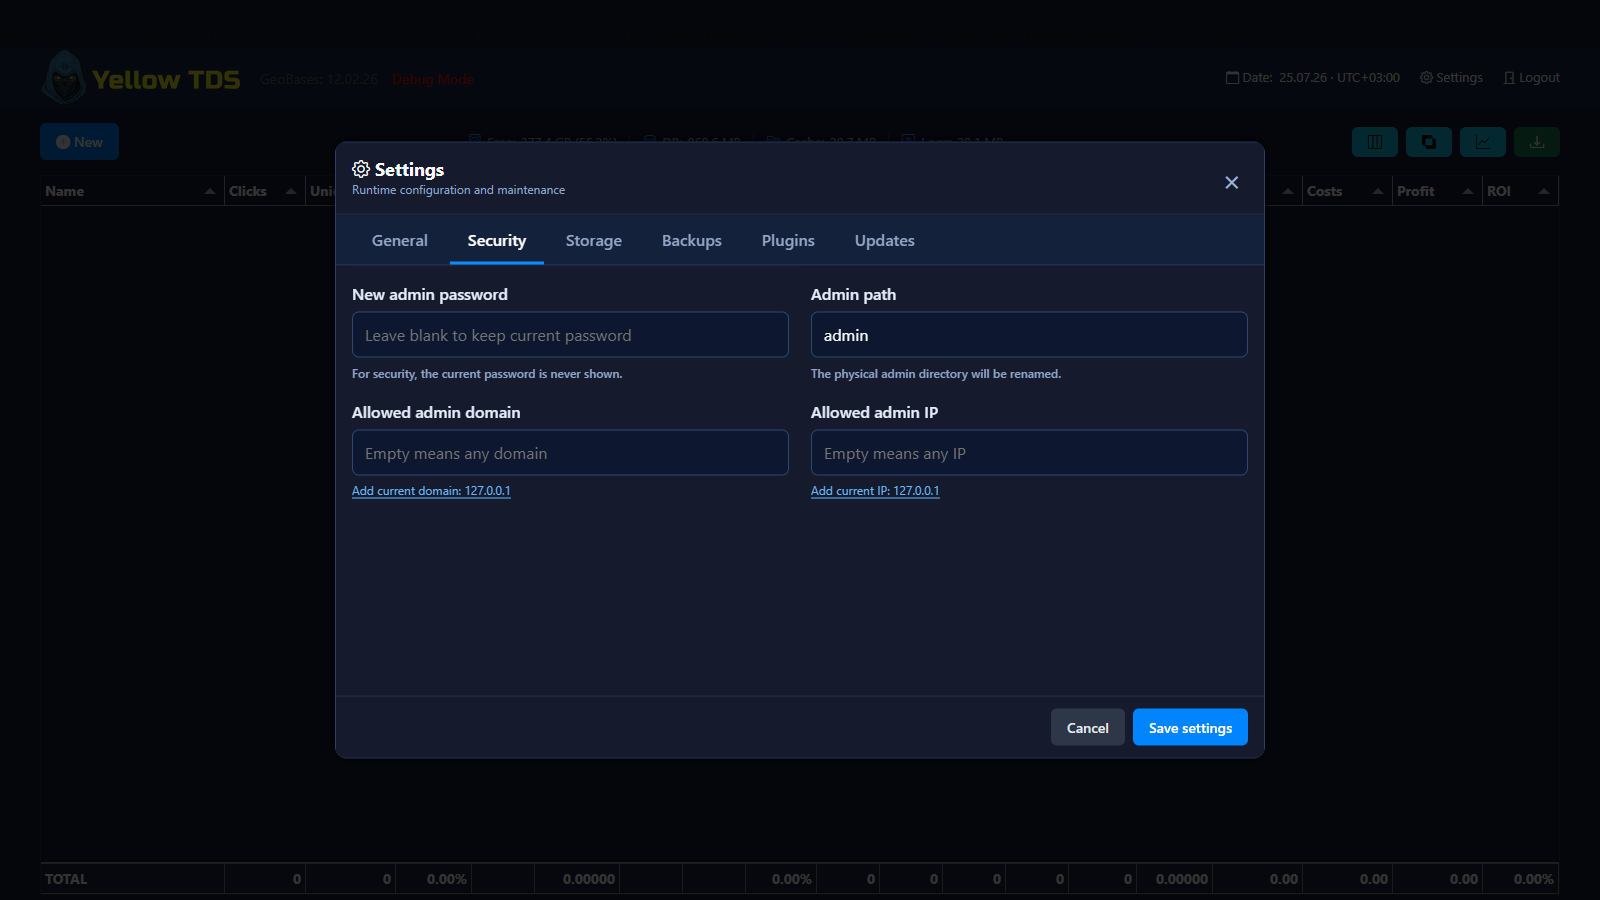
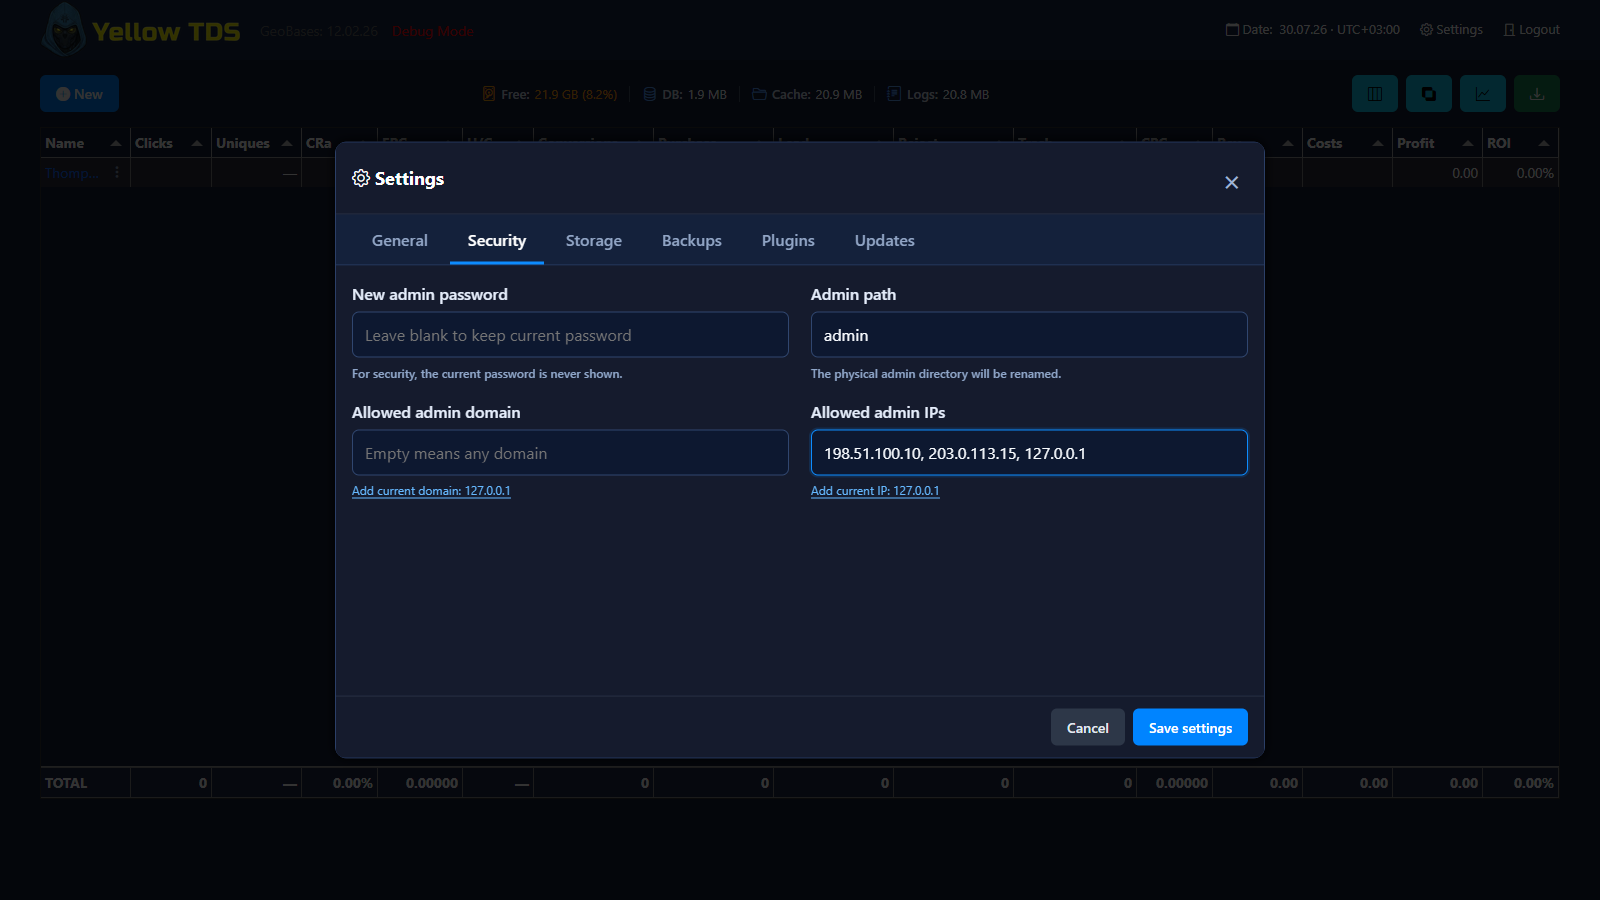
Allow multiple admin IPs

diff --git a/code/admin/js/settings.js b/code/admin/js/settings.js
@@ -598,9 +598,17 @@
         node('#addCurrentAdminIp')?.addEventListener('click', () => {
             const button = node('#addCurrentAdminIp');
             if (!button.dataset.ip) return;
-            field('adminIp').value = button.dataset.ip;
-            field('adminIp').classList.remove('is-invalid');
-            field('adminIp').focus();
+            const input = field('adminIp');
+            const configuredIps = input.value
+                .split(',')
+                .map((ip) => ip.trim())
+                .filter(Boolean);
+            if (!configuredIps.includes(button.dataset.ip)) {
+                configuredIps.push(button.dataset.ip);
+            }
+            input.value = configuredIps.join(', ');
+            input.classList.remove('is-invalid');
+            input.focus();
         });
         node('#closeSettings')?.addEventListener('click', () => $.modal.close());
         node('#cancelSettings')?.addEventListener('click', () => $.modal.close());

diff --git a/code/admin/accesscontrol.php b/code/admin/accesscontrol.php
@@ -33,10 +33,27 @@ function get_admin_request_ip(array $server, ?callable $isCloudflareIp = null): 
     return '';
 }
 
+/** @return list<string> */
+function get_allowed_admin_ips(array $settings): array
+{
+    $configuredIps = trim((string)($settings['adminIp'] ?? ''));
+    if ($configuredIps === '') {
+        return [];
+    }
+
+    return array_values(array_unique(array_filter(
+        array_map(static fn(string $ip): string => trim($ip), explode(',', $configuredIps)),
+        static fn(string $ip): bool => $ip !== ''
+    )));
+}
+
 function get_admin_shortcut_redirect(array $server, array $settings, ?callable $isCloudflareIp = null): ?string
 {
-    $adminIp = trim((string)($settings['adminIp'] ?? ''));
-    if ($adminIp === '' || get_admin_request_ip($server, $isCloudflareIp) !== $adminIp) {
+    $adminIps = get_allowed_admin_ips($settings);
+    if (
+        $adminIps === []
+        || !in_array(get_admin_request_ip($server, $isCloudflareIp), $adminIps, true)
+    ) {
         return null;
     }
 
@@ -66,11 +83,11 @@ function get_admin_access_error(array $server, array $settings, ?callable $isClo
         }
     }
 
-    $adminIp = trim((string)($settings['adminIp'] ?? ''));
-    if ($adminIp !== '') {
+    $configuredAdminIps = trim((string)($settings['adminIp'] ?? ''));
+    if ($configuredAdminIps !== '') {
         $currentIp = get_admin_request_ip($server, $isCloudflareIp);
-        if ($currentIp !== $adminIp) {
-            return "Admin IP $adminIp is set, but your IP is $currentIp. You are not allowed to access this page!";
+        if (!in_array($currentIp, get_allowed_admin_ips($settings), true)) {
+            return "Admin IPs $configuredAdminIps are set, but your IP is $currentIp. You are not allowed to access this page!";
         }
     }
 

diff --git a/tests/engine/AdminAccessTest.php b/tests/engine/AdminAccessTest.php
@@ -49,8 +49,26 @@ class AdminAccessTest extends TestCase
         ];
 
         $this->assertSame(
-            'Admin IP 198.51.100.10 is set, but your IP is 203.0.113.15. You are not allowed to access this page!',
+            'Admin IPs 198.51.100.10 are set, but your IP is 203.0.113.15. You are not allowed to access this page!',
             get_admin_access_error($server, $settings)
+        );
+    }
+
+    public function testAllowsAnyConfiguredAdminIp(): void
+    {
+        $server = [
+            'SERVER_NAME' => 'admin.example.com',
+            'REMOTE_ADDR' => '203.0.113.15',
+        ];
+        $settings = [
+            'adminDomain' => '',
+            'adminIp' => '198.51.100.10, 203.0.113.15, 2001:db8::10',
+        ];
+
+        $this->assertNull(get_admin_access_error($server, $settings));
+        $this->assertSame(
+            ['198.51.100.10', '203.0.113.15', '2001:db8::10'],
+            get_allowed_admin_ips($settings)
         );
     }
 
@@ -86,7 +104,7 @@ class AdminAccessTest extends TestCase
 
         $this->assertSame('203.0.113.15', get_admin_request_ip($server, $cloudflareChecker));
         $this->assertSame(
-            'Admin IP 8.8.8.8 is set, but your IP is 203.0.113.15. You are not allowed to access this page!',
+            'Admin IPs 8.8.8.8 are set, but your IP is 203.0.113.15. You are not allowed to access this page!',
             get_admin_access_error($server, $settings, $cloudflareChecker)
         );
     }

diff --git a/code/settings.php b/code/settings.php
@@ -239,8 +239,20 @@ final class SettingsManager
         if (($next['adminDomain'] ?? '') !== '' && preg_match('/^(?:[A-Za-z0-9](?:[A-Za-z0-9.-]{0,251}[A-Za-z0-9])?)$/', (string)$next['adminDomain']) !== 1) {
             $errors['adminDomain'] = 'Invalid domain';
         }
-        if (($next['adminIp'] ?? '') !== '' && filter_var($next['adminIp'], FILTER_VALIDATE_IP) === false) {
-            $errors['adminIp'] = 'Invalid IP address';
+        if (($next['adminIp'] ?? '') !== '') {
+            $adminIps = array_map(
+                static fn(string $ip): string => trim($ip),
+                explode(',', (string)$next['adminIp'])
+            );
+            $invalidAdminIps = array_filter(
+                $adminIps,
+                static fn(string $ip): bool => $ip === '' || filter_var($ip, FILTER_VALIDATE_IP) === false
+            );
+            if ($invalidAdminIps !== []) {
+                $errors['adminIp'] = 'Enter valid IP addresses separated by commas';
+            } else {
+                $next['adminIp'] = implode(', ', array_values(array_unique($adminIps)));
+            }
         }
         if (!in_array((string)($next['timezone'] ?? ''), timezone_identifiers_list(), true)) {
             $errors['timezone'] = 'Select a valid IANA timezone';

diff --git a/tests/application/SettingsManagerTest.php b/tests/application/SettingsManagerTest.php
@@ -133,6 +133,34 @@ class SettingsManagerTest extends TestCase
         }
     }
 
+    public function testAdminIpListIsValidatedAndNormalized(): void
+    {
+        $settings = $this->manager->load();
+        $settings['adminIp'] = '198.51.100.10, 203.0.113.15, 198.51.100.10, 2001:db8::10';
+        $saved = $this->manager->save($settings, 0, $this->catalog);
+
+        $this->assertSame(
+            '198.51.100.10, 203.0.113.15, 2001:db8::10',
+            $saved['settings']['adminIp']
+        );
+    }
+
+    public function testAdminIpListRejectsInvalidEntries(): void
+    {
+        $settings = $this->manager->load();
+        $settings['adminIp'] = '198.51.100.10, not-an-ip';
+
+        try {
+            $this->manager->save($settings, 0, $this->catalog);
+            $this->fail('Expected validation exception');
+        } catch (SettingsValidationException $e) {
+            $this->assertSame(
+                'Enter valid IP addresses separated by commas',
+                $e->errors['adminIp'] ?? null
+            );
+        }
+    }
+
     public function testBackupDirectoryCannotOverlapSystemStorage(): void
     {
         $settings = $this->manager->load();

diff --git a/code/admin/settingsmodal.php b/code/admin/settingsmodal.php
@@ -70,8 +70,8 @@
                             <button type="button" class="settings-current-value" id="addCurrentAdminDomain" hidden></button>
                         </label>
                         <label class="settings-field">
-                            <span>Allowed admin IP</span>
-                            <input type="text" name="adminIp" placeholder="Empty means any IP">
+                            <span>Allowed admin IPs</span>
+                            <input type="text" name="adminIp" placeholder="Comma-separated; empty means any IP">
                             <button type="button" class="settings-current-value" id="addCurrentAdminIp" hidden></button>
                         </label>
                     </div>

diff --git a/tests/application/AdminAccessControlTest.php b/tests/application/AdminAccessControlTest.php
@@ -57,6 +57,14 @@ class AdminAccessControlTest extends TestCase
         $this->assertStringNotContainsString('203.0.113.15', $response['body']);
     }
 
+    public function testIpRestrictionAllowsAnyAddressInCommaSeparatedList(): void
+    {
+        $this->assertNull(get_admin_access_error(
+            ['REMOTE_ADDR' => '203.0.113.15'],
+            ['adminDomain' => '', 'adminIp' => '198.51.100.10, 203.0.113.15']
+        ));
+    }
+
     public function testDebugDenialKeepsDiagnosticMessage(): void
     {
         $error = 'Admin Domain mismatch details';

diff --git a/tests/engine/AdminShortcutTest.php b/tests/engine/AdminShortcutTest.php
@@ -32,6 +32,17 @@ class AdminShortcutTest extends TestCase
         );
     }
 
+    public function testRedirectsWhenAdminIpMatchesAnyConfiguredIp(): void
+    {
+        $this->assertSame(
+            '/e3c80abc/',
+            get_admin_shortcut_redirect(
+                $this->server(),
+                $this->settings(['adminIp' => '198.51.100.10, ' . self::ADMIN_IP])
+            )
+        );
+    }
+
     public function testPreservesApplicationSubdirectoryInRedirect(): void
     {
         $this->assertSame(

diff --git a/docs/ru/system-settings.md b/docs/ru/system-settings.md
@@ -17,7 +17,7 @@
 
 Selector **TDS timezone** сохраняет IANA-идентификатор и показывает текущее смещение UTC, например `Europe/Samara (UTC+04:00)`. Смещение может меняться по правилам летнего времени.
 
-На вкладке **Security** под полями **Allowed admin domain** и **Allowed admin IP** показываются определённые сервером текущий домен и IP. Кнопки **Add current domain** и **Add current IP** переносят соответствующее значение в поле одним нажатием; домен подставляется без номера порта. На вкладке **Plugins** каждый плагин имеет явный переключатель и подпись **Enabled** или **Disabled**; параметры выключенного плагина становятся неактивными.
+На вкладке **Security** под полями **Allowed admin domain** и **Allowed admin IPs** показываются определённые сервером текущий домен и IP. В **Allowed admin IPs** можно указать несколько IPv4- и IPv6-адресов в одной строке через запятую, например `198.51.100.10, 203.0.113.15, 2001:db8::10`; доступ разрешается с любого адреса списка. Пустое поле не ограничивает доступ по IP. **Add current IP** дописывает текущий IP через запятую, не добавляет запятую перед первым адресом и не создаёт дубликат. **Add current domain** переносит текущий домен без номера порта. На вкладке **Plugins** каждый плагин имеет явный переключатель и подпись **Enabled** или **Disabled**; параметры выключенного плагина становятся неактивными.
 
 Изменение пути админки, имени БД, папки бэкапов или корня кэша физически переименовывает соответствующие файлы и каталоги. Существующая целевая папка или файл считаются конфликтом и не перезаписываются. После смены пути админки браузер автоматически переходит на новый URL.
 

diff --git a/docs/en/system-settings.md b/docs/en/system-settings.md
@@ -17,7 +17,7 @@ The **Settings** button in the header opens instance-wide YellowTDS settings. Th
 
 The **TDS timezone** selector keeps the IANA identifier and shows its current UTC offset, for example `Europe/Samara (UTC+04:00)`. The offset can change with daylight-saving rules.
 
-On the **Security** tab, the server-detected current domain and IP are shown below **Allowed admin domain** and **Allowed admin IP**. **Add current domain** and **Add current IP** copy the corresponding value into the field with one click; the domain is inserted without a port number. On the **Plugins** tab, every plugin has an explicit switch and an **Enabled** or **Disabled** label; options belonging to a disabled plugin are inactive.
+On the **Security** tab, the server-detected current domain and IP are shown below **Allowed admin domain** and **Allowed admin IPs**. **Allowed admin IPs** accepts multiple IPv4 and IPv6 addresses in one comma-separated line, for example `198.51.100.10, 203.0.113.15, 2001:db8::10`; access is allowed from any address in the list. An empty field disables the IP restriction. **Add current IP** appends the detected address with a comma only when the list is not empty and does not add a duplicate. **Add current domain** inserts the current domain without a port number. On the **Plugins** tab, every plugin has an explicit switch and an **Enabled** or **Disabled** label; options belonging to a disabled plugin are inactive.
 
 Changing the admin path, database file name, backup folder, or cache root physically renames the corresponding files and directories. Existing destinations are treated as conflicts and are never overwritten or merged. After an admin path change, the browser automatically redirects to the new URL.
 

diff --git a/docs/ru/admin-login.md b/docs/ru/admin-login.md
@@ -28,9 +28,11 @@
 
 ## Ограничение по IP
 
-Если нужно пускать в админку только с одного IP, можно использовать:
+Если нужно пускать в админку только с определённых IP, можно использовать:
 
 - `adminIp`
+
+Значение содержит один или несколько IPv4/IPv6-адресов через запятую, например `198.51.100.10, 203.0.113.15, 2001:db8::10`. Доступ разрешается, если текущий IP совпадает с любым адресом списка. Старое значение с одним IP продолжает работать.
 
 Если сайт стоит за Cloudflare, для проверки IP будет использован `CF-Connecting-IP`, но только если IP прокси-запроса действительно принадлежит Cloudflare. Для этой проверки нужна читаемая и свежая ASN-геобаза.
 

diff --git a/docs/en/admin-login.md b/docs/en/admin-login.md
@@ -30,9 +30,11 @@ You can restrict admin access to a single host with:
 
 ## IP Restriction
 
-You can also restrict admin access to a single IP with:
+You can also restrict admin access to selected IP addresses with:
 
 - `adminIp`
+
+The value contains one or more comma-separated IPv4/IPv6 addresses, for example `198.51.100.10, 203.0.113.15, 2001:db8::10`. Access is allowed when the current IP matches any address in the list. Existing single-IP values remain valid.
 
 When the site is behind Cloudflare, the IP check uses `CF-Connecting-IP`, but only if the proxy IP itself belongs to Cloudflare. This check depends on a readable and fresh ASN geobase.
 
